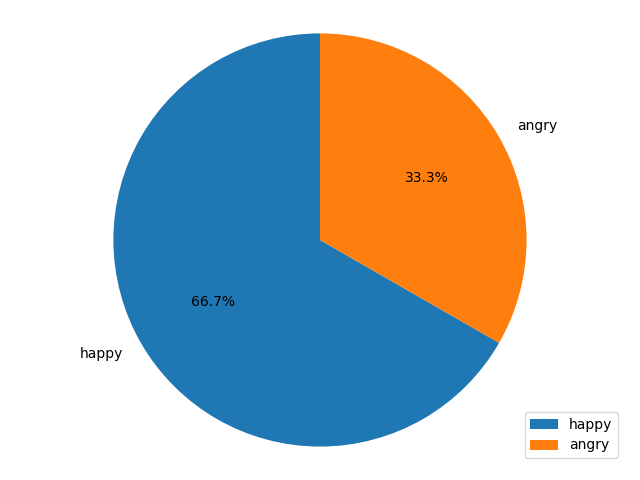
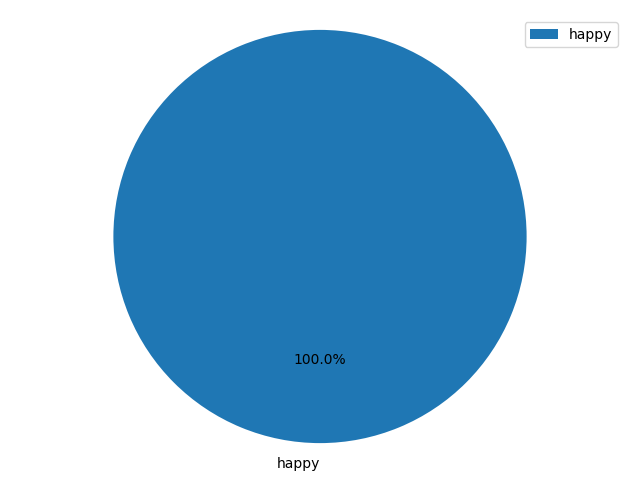
Add files via upload

diff --git a/emotion_classify2.py b/emotion_classify2.py
@@ -1,0 +1,109 @@
+import pickle
+import librosa
+import warnings
+
+from matplotlib import pyplot as plt
+
+warnings.filterwarnings('ignore')
+from utils import extract_feature
+from pydub import AudioSegment
+from pydub.utils import make_chunks
+
+"""
+This class predicts the emotion by the GB_classifier
+"""
+class emotion_model(object):
+    """
+    load machine learning model GB_classifier from a pickle file
+    """
+    def __init__(self):
+        self.model = pickle.load(open('GB_classifier.model', "rb"))
+    """
+    returns the predict emotion of a wav file by the features that was analyzing from a wav file
+    """
+    def predict(self, filename):
+        # extract features and reshape it
+        features = extract_feature(filename, mfcc=True, chroma=True, mel=True).reshape(1, -1)
+        # predict
+        result = self.model.predict(features)[0]
+        # show the result !
+        return result
+
+"""
+gets a wav file and splits it into chunks, in order to do a predict to each smaller wav file.
+it returns the lables of the classified emotions, their values by percentages and the dominant value.
+if there is a tie between emotions it will return the first one
+"""
+def emo_chart (speaker_file):
+    myaudio = AudioSegment.from_file(speaker_file, "wav")
+    len = librosa.get_duration(filename=speaker_file)
+    chunk_length_ms = 10000 # pydub calculates in millisec
+    chunks = make_chunks(myaudio,chunk_length_ms) #Make chunks of one sec
+    emotions = []
+    for i, chunk in enumerate(chunks):
+        chunk_name = "{0}.wav".format(i)
+        chunk.export(chunk_name, format="wav")
+        emotions.append(emotion_model().predict(
+            chunk_name ))
+    # return emotions
+    n = 0
+    h = 0
+    s = 0
+    a = 0
+    f = 0
+    emo_num = 0
+    emo_dict = {
+        "neutral": n,
+        "happy": h,
+        "sad": s,
+        "angry": a,
+        "fearful": f,
+    }
+    for i in emotions:
+        if i == 'neutral':
+            emo_dict['neutral'] += 1
+            emo_num += 1
+        if i == 'happy':
+            emo_dict['happy'] += 1
+            emo_num += 1
+        if i == 'sad':
+            emo_dict['sad'] += 1
+            emo_num += 1
+        if i == 'angry':
+            emo_dict['angry'] += 1
+            emo_num += 1
+        if i == 'fearful':
+            emo_dict['fearful'] += 1
+            emo_num += 1
+    dict ={
+        "neutral": float("{:.1f}".format(((emo_dict['neutral']) / emo_num)*100)),
+        "happy": float("{:.1f}".format(((emo_dict['happy']) / emo_num)*100)),
+        "sad": float("{:.1f}".format(((emo_dict['sad']) / emo_num)*100)),
+        "angry": float("{:.1f}".format(((emo_dict['angry']) / emo_num)*100)),
+        "fearful": float("{:.1f}".format(((emo_dict['fearful']) / emo_num)*100)),
+    }
+    # Get the Keys and store them in a list
+    labels = [*dict]
+    # Get the Values and store them in a list
+    values = [ list for key, list in dict.items()]
+
+    for i in values:
+        if i == 0.0:
+            idx = values.index(i)
+            values.remove(i)
+            labels.remove(labels[idx])
+    if values[-1] == 0.0:
+        del values[-1]
+        del labels[-1]
+
+    max_value = max(values)
+    idx = values.index(max_value)
+    max_emotion = labels[idx]
+    plt.pie(values, labels=labels, startangle=90, autopct='%1.1f%%')
+    plt.legend(loc="best")
+    plt.axis('equal')
+    plt.tight_layout()
+    plt.show()
+
+    return labels, values, max_emotion
+
